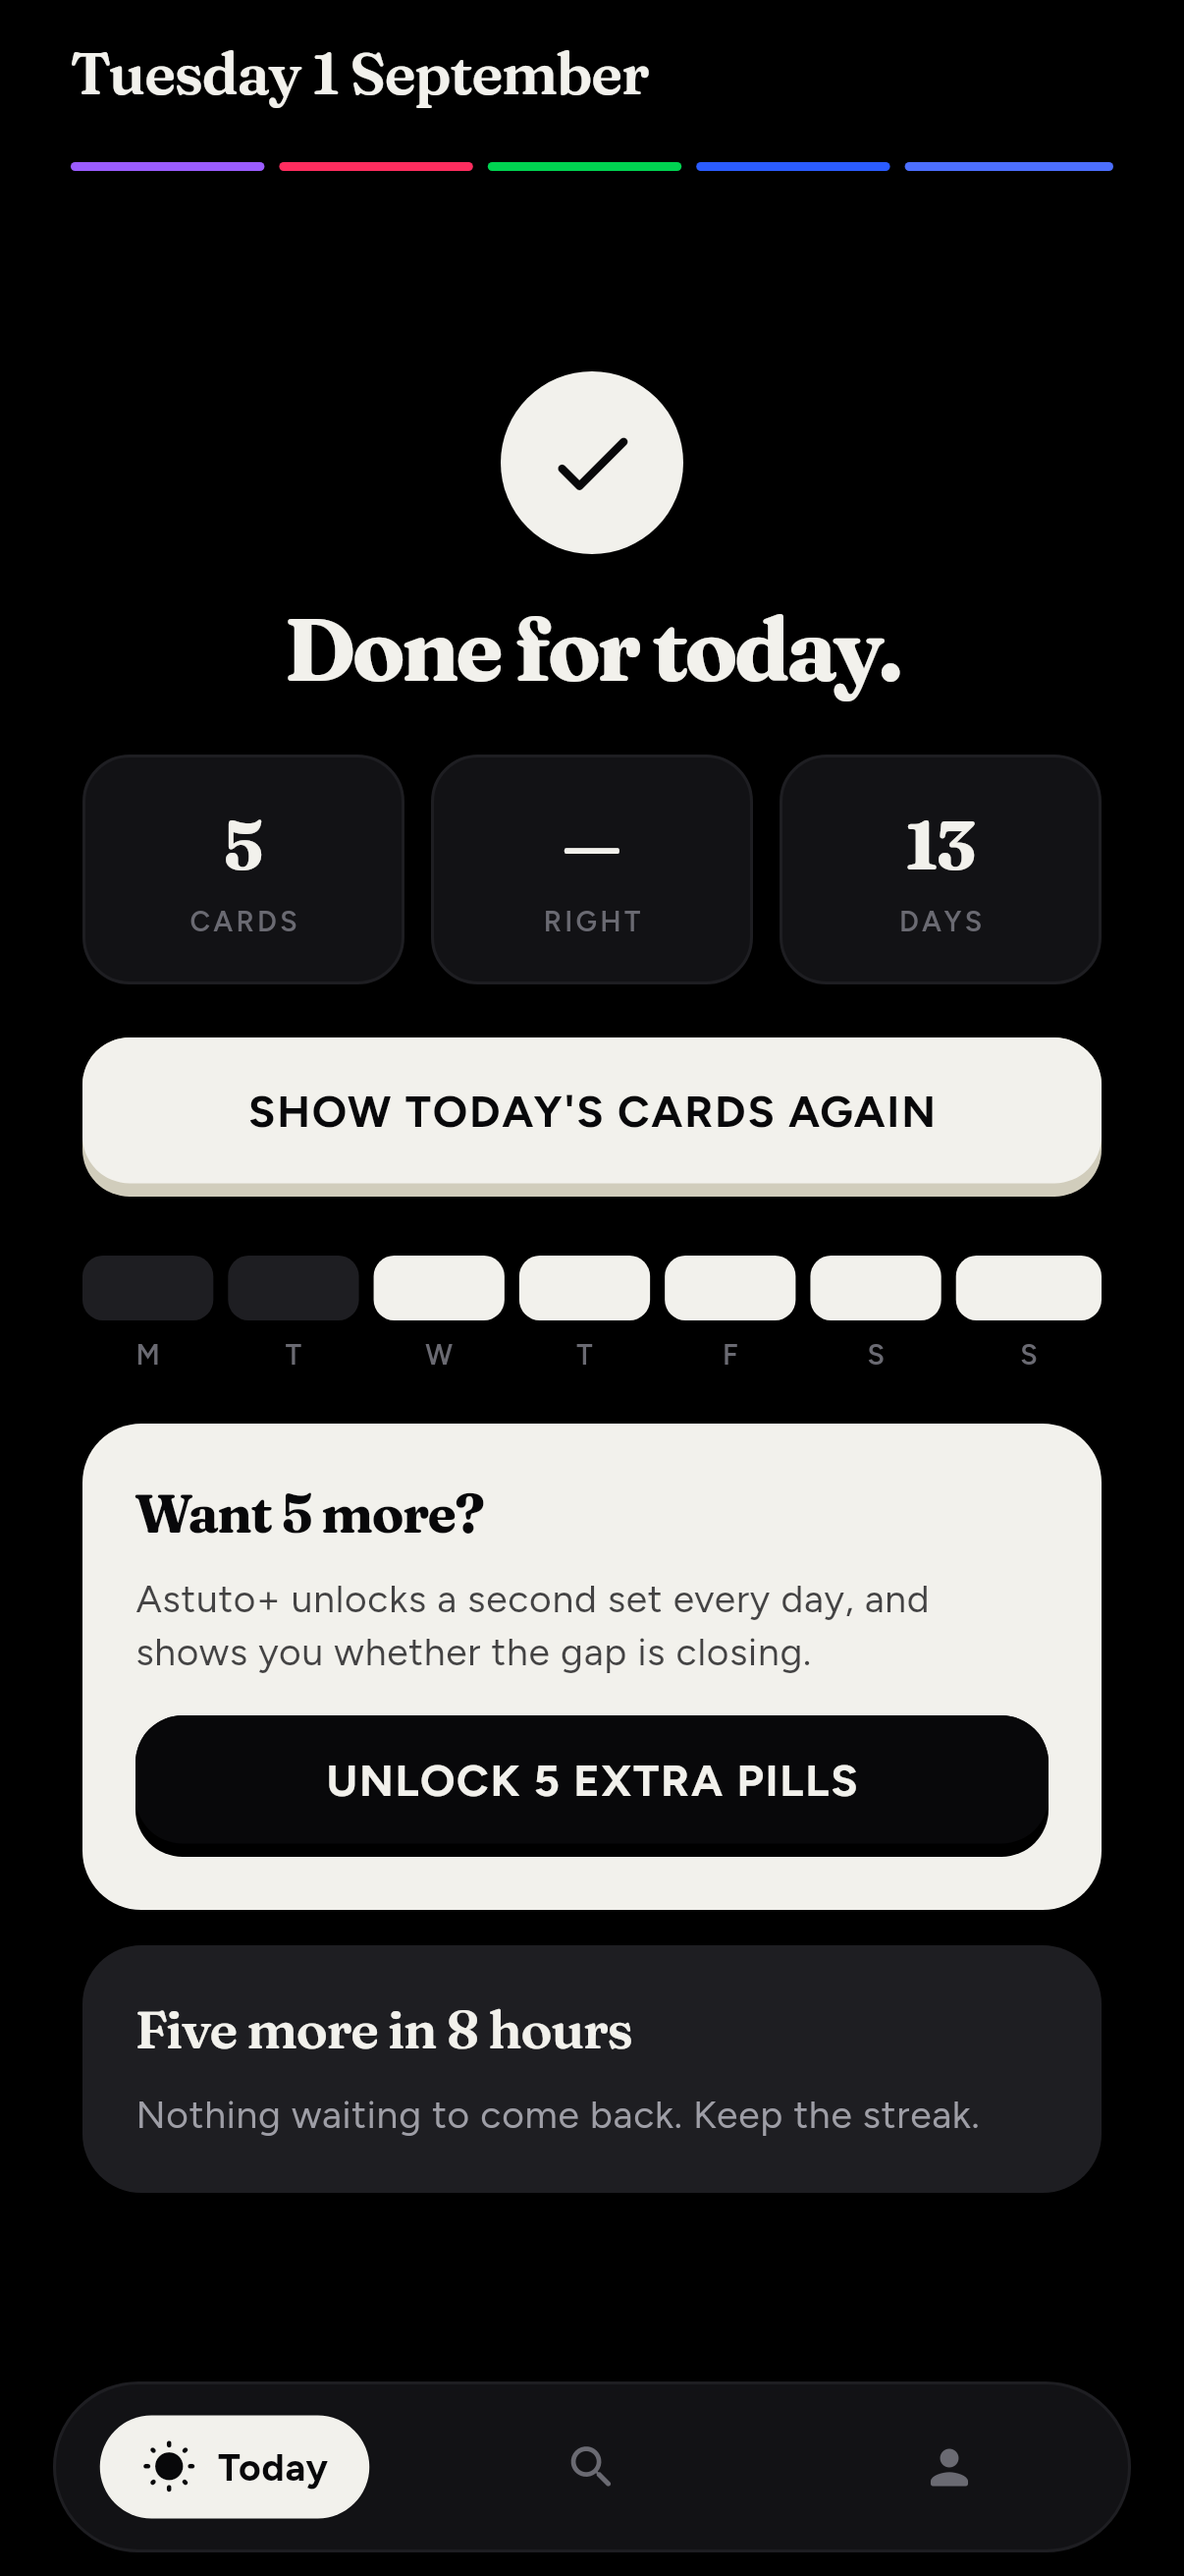
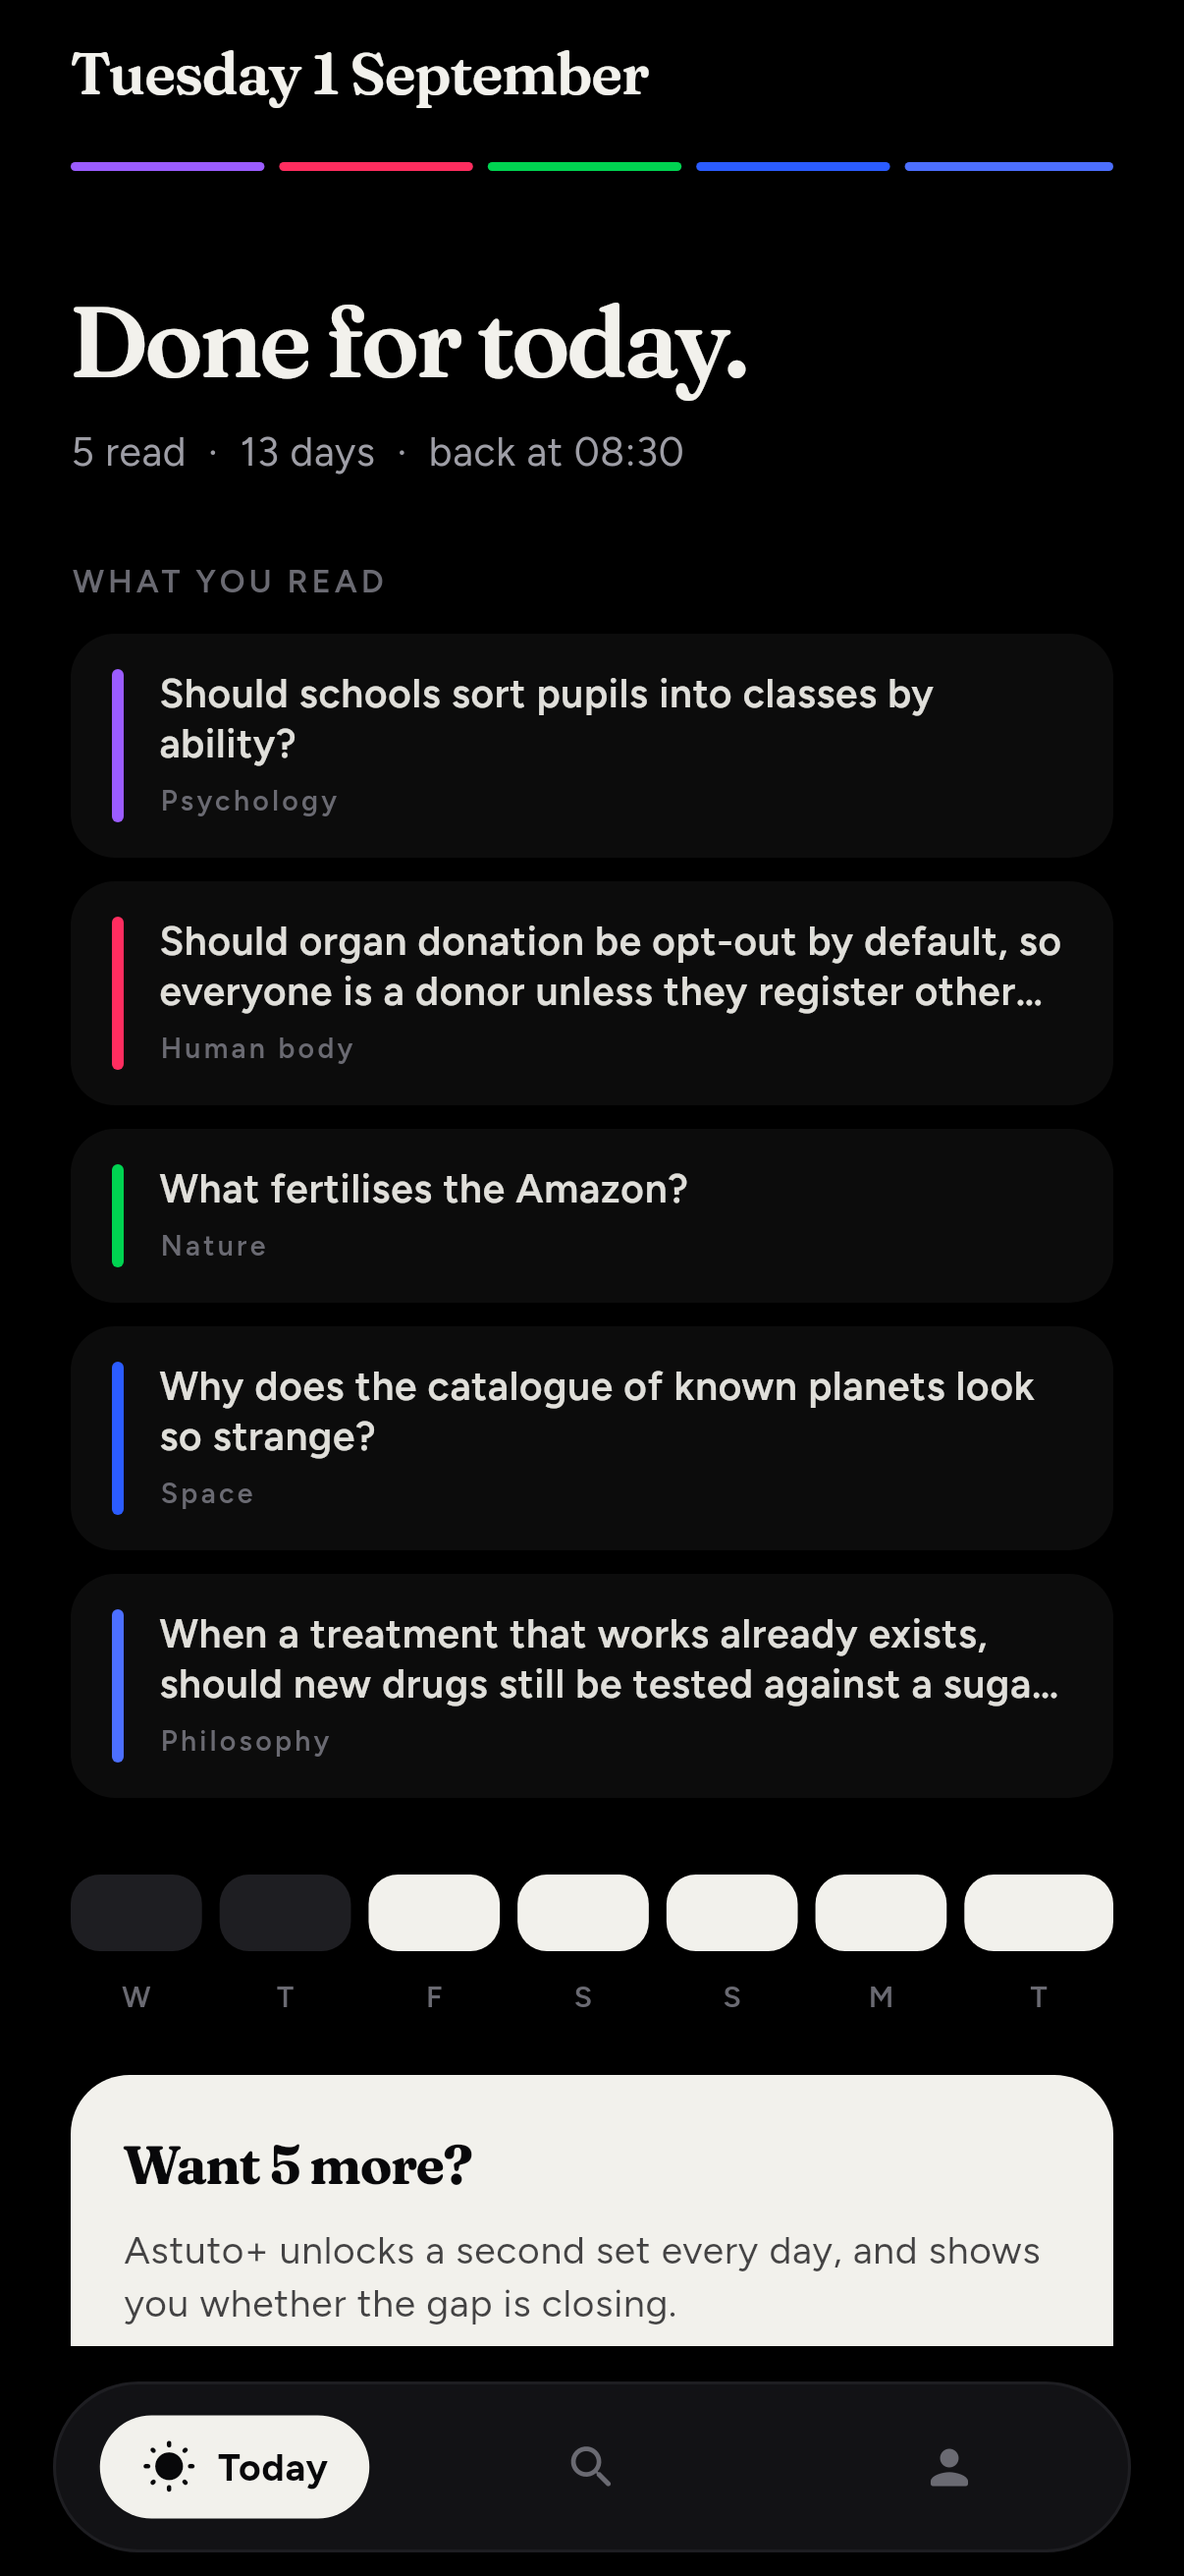
The day closes with what was in it, not with a tick
The end-of-day screen opened with a check in a white circle that could have
belonged to any app, under three tiles of which one usually read a dash —
nothing had been graded, so RIGHT had nothing to say — and then stacked a
week strip, an offer and a "five more in eight hours" card on top of each
other. The calmest screen in the app was its busiest. And in all of that it
never named a single card, which is the whole of what had just been read.

It is a receipt now. "Done for today", one line carrying the count, the
score where there is one, the streak and when the next set arrives, and then
the five, each with its subject's colour against it — the same colours the
bars at the top of the day were drawn in. Every row opens that card, so the
way back is to the one you wanted rather than to the top of the five; the
button that reopened all of them has gone with the tiles.

The tomorrow card went too: the summary line already says when the next set
comes, and saying it twice was one of the three blocks that made this screen
loud.

diff --git a/lib/screens/recap_view.dart b/lib/screens/recap_view.dart
@@ -1,5 +1,6 @@
 import 'package:flutter/material.dart';
 
+import '../models/pill.dart';
 import '../state/app_state.dart';
 import '../theme.dart';
 import '../widgets/chunky.dart';
@@ -8,8 +9,6 @@ import '../widgets/record_share_sheet.dart';
 import '../widgets/ui.dart';
 import 'deck_viewer_screen.dart';
 import 'paywall_screen.dart';
-
-const _weekLetters = ['M', 'T', 'W', 'T', 'F', 'S', 'S'];
 
 /// The end-of-day state: the streak recap, then either the Astuto+ upsell on
 /// the free plan or the second set of the day for subscribers.
@@ -33,126 +32,73 @@ class RecapView extends StatelessWidget {
   @override
   Widget build(BuildContext context) {
     final (right, gradeable) = _tally();
-    final week = app.weekCompletion();
 
-    // Small on purpose. The end of a day is a beat, not a report: what it
-    // owes the reader is that it is finished, roughly how it went, and a way
-    // back into the cards. The long version pushed that way back below the
-    // fold, which is the one thing on this screen anybody actually wants.
+    // A receipt, not a certificate. What this screen owes the reader is
+    // that the day is finished, what was in it, and when the next one comes.
+    // It used to open with a tick in a circle that could have belonged to
+    // any app, under three tiles of which one usually read a dash — and it
+    // never once named a card, which is the whole of what had just been
+    // read.
+    final summary = <String>[
+      app.todaysDeck.length == 1 ? '1 read' : '${app.todaysDeck.length} read',
+      if (gradeable > 0) '$right of $gradeable right',
+      if (app.streak > 0) app.streak == 1 ? '1 day' : '${app.streak} days',
+      'back at ${app.notifyTime}',
+    ];
+
     return SingleChildScrollView(
-      padding: const EdgeInsets.fromLTRB(10, 10, 10, 10),
+      padding: const EdgeInsets.fromLTRB(6, 24, 6, 10),
       child: Column(
         crossAxisAlignment: CrossAxisAlignment.stretch,
         children: [
-          PopIn(
-            child: Center(
-              child: Container(
-                width: 62,
-                height: 62,
-                decoration: BoxDecoration(
-                  color: context.p.inverse,
-                  shape: BoxShape.circle,
-                ),
-                child: Icon(
-                  Icons.check_rounded,
-                  size: 34,
-                  color: context.p.onInverse,
-                ),
-              ),
-            ),
-          ),
-          const SizedBox(height: 16),
           RiseIn(
-            delay: const Duration(milliseconds: 80),
             child: Text(
               'Done for today.',
-              textAlign: TextAlign.center,
               style: AppText.display(
-                size: 30,
-                weight: FontWeight.w700,
+                size: 34,
+                weight: FontWeight.w600,
                 height: 1.05,
                 spacing: -1.2,
                 color: context.p.ink,
               ),
             ),
           ),
-          const SizedBox(height: 20),
+          const SizedBox(height: 10),
           RiseIn(
-            delay: const Duration(milliseconds: 160),
-            child: Row(
-              children: [
-                Expanded(
-                  child: _Stat(
-                    value: '${app.todaysDeck.length}',
-                    label: 'CARDS',
-                  ),
-                ),
-                const SizedBox(width: 9),
-                Expanded(
-                  child: _Stat(
-                    value: gradeable == 0 ? '—' : '$right/$gradeable',
-                    label: 'RIGHT',
-                  ),
-                ),
-                const SizedBox(width: 9),
-                Expanded(
-                  child: _Stat(
-                    value: '${app.streak}',
-                    label: app.streak == 1 ? 'DAY' : 'DAYS',
-                    accent: true,
-                  ),
-                ),
-              ],
+            delay: const Duration(milliseconds: 60),
+            child: Text(
+              summary.join('  ·  '),
+              style: AppText.body(size: 13.5, color: context.p.inkMuted),
             ),
           ),
+          const SizedBox(height: 26),
+          const Eyebrow('What you read'),
+          const SizedBox(height: 10),
+          // The five, named, each one a way back into itself. A single
+          // button marked "show them again" made you re-open all five to
+          // reach the one you wanted.
+          for (int i = 0; i < app.todaysDeck.length; i++)
+            RiseIn(
+              delay: Duration(milliseconds: 100 + i * 50),
+              child: _ReadRow(
+                pill: app.todaysDeck[i],
+                onTap: () => openDeckViewer(
+                  context,
+                  app,
+                  app.todaysDeck,
+                  "Today's five",
+                  initialIndex: i,
+                ),
+              ),
+            ),
           const SizedBox(height: 18),
           RiseIn(
-            delay: const Duration(milliseconds: 240),
-            child: ChunkyButton(
-              label: "SHOW TODAY'S CARDS AGAIN",
-              height: 54,
-              fill: context.p.inverse,
-              ink: context.p.onInverse,
-              onPressed: () =>
-                  openDeckViewer(context, app, app.todaysDeck, "Today's five"),
-            ),
+            delay: const Duration(milliseconds: 340),
+            child: WeekStrip(week: app.weekCompletion(), barHeight: 26),
           ),
           const SizedBox(height: 20),
-          RiseIn(
-            delay: const Duration(milliseconds: 300),
-            child: Row(
-              children: List.generate(7, (i) {
-                return Expanded(
-                  child: Padding(
-                    padding: EdgeInsets.only(right: i == 6 ? 0 : 5),
-                    child: Column(
-                      children: [
-                        Container(
-                          height: 22,
-                          decoration: BoxDecoration(
-                            color: week[i] ? context.p.inverse : context.p.line,
-                            borderRadius: BorderRadius.circular(7),
-                          ),
-                        ),
-                        const SizedBox(height: 5),
-                        Text(
-                          _weekLetters[i],
-                          style: AppText.label(
-                            size: 9.5,
-                            color: context.p.inkFaint,
-                          ),
-                        ),
-                      ],
-                    ),
-                  ),
-                );
-              }),
-            ),
-          ),
-          const SizedBox(height: 16),
 
-          // Everything past here is optional reading, and sits below the
-          // thing the reader came to this screen to do.
+          // Everything past here is optional reading.
           if (app.canOpenExtraSet)
             _ExtraSet(app: app)
           else if (!app.isPlus)
@@ -163,51 +109,74 @@ class RecapView extends StatelessWidget {
             const SizedBox(height: 12),
             _RecordNudge(app: app),
           ],
-          if (!app.isPlus) ...[const SizedBox(height: 12), _Tomorrow(app: app)],
         ],
       ),
     );
   }
 }
 
-/// One figure from the day, in a tile small enough that three fit a row.
-class _Stat extends StatelessWidget {
-  final String value;
-  final String label;
-  final bool accent;
+/// One of the day's cards, on the screen that closes the day.
+class _ReadRow extends StatelessWidget {
+  const _ReadRow({required this.pill, required this.onTap});
 
-  const _Stat({required this.value, required this.label, this.accent = false});
+  final Pill pill;
+  final VoidCallback onTap;
 
   @override
   Widget build(BuildContext context) {
-    return Container(
-      padding: const EdgeInsets.symmetric(vertical: 13),
-      decoration: BoxDecoration(
-        color: context.p.surfaceRaised,
-        borderRadius: BorderRadius.circular(16),
-        border: Border.all(color: context.p.line),
-      ),
-      child: Column(
-        children: [
-          Text(
-            value,
-            style: AppText.display(
-              size: 23,
-              weight: FontWeight.w700,
-              spacing: -0.7,
-              color: accent ? context.p.inverse : context.p.ink,
-            ),
+    return GestureDetector(
+      behavior: HitTestBehavior.opaque,
+      onTap: onTap,
+      child: Container(
+        margin: const EdgeInsets.only(bottom: 8),
+        padding: const EdgeInsets.fromLTRB(14, 12, 14, 12),
+        decoration: BoxDecoration(
+          color: context.p.ink.withValues(alpha: 0.05),
+          borderRadius: BorderRadius.circular(15),
+        ),
+        child: IntrinsicHeight(
+          child: Row(
+            crossAxisAlignment: CrossAxisAlignment.stretch,
+            children: [
+              Container(
+                width: 4,
+                decoration: BoxDecoration(
+                  color: pill.color,
+                  borderRadius: BorderRadius.circular(9),
+                ),
+              ),
+              const SizedBox(width: 12),
+              Expanded(
+                child: Column(
+                  crossAxisAlignment: CrossAxisAlignment.start,
+                  mainAxisAlignment: MainAxisAlignment.center,
+                  children: [
+                    Text(
+                      pill.question,
+                      maxLines: 2,
+                      overflow: TextOverflow.ellipsis,
+                      style: AppText.body(
+                        size: 13.5,
+                        height: 1.28,
+                        weight: FontWeight.w600,
+                        color: context.p.ink.withValues(alpha: 0.92),
+                      ),
+                    ),
+                    const SizedBox(height: 4),
+                    Text(
+                      pill.topic,
+                      style: AppText.label(
+                        size: 9.5,
+                        spacing: 1.1,
+                        color: context.p.inkFaint,
+                      ),
+                    ),
+                  ],
+                ),
+              ),
+            ],
           ),
-          const SizedBox(height: 3),
-          Text(
-            label,
-            style: AppText.label(
-              size: 9.5,
-              spacing: 1.1,
-              color: context.p.inkFaint,
-            ),
-          ),
-        ],
+        ),
       ),
     );
   }

diff --git a/test/widget_test.dart b/test/widget_test.dart
@@ -714,20 +714,22 @@ void main() {
       await _settle(tester);
     }
 
-    // Short: it says it is done and how it went, and nothing else has to be
-    // scrolled past to get back to the cards.
+    // It says it is done, how the day went on one line, and then names the
+    // five — which is both the record of the day and the way back into any
+    // one of them.
     expect(find.text('Done for today.'), findsOneWidget);
-    expect(find.text('CARDS'), findsOneWidget);
-    expect(find.text('RIGHT'), findsOneWidget);
+    expect(find.textContaining('5 read'), findsOneWidget);
+    expect(find.text('WHAT YOU READ'), findsOneWidget);
 
-    final again = find.text("SHOW TODAY'S CARDS AGAIN");
-    expect(again, findsOneWidget);
-    await tester.tap(again);
+    final app = AppState();
+    await app.init();
+    final second = app.todaysDeck[1].question;
+    await tester.tap(find.text(second));
     await _settle(tester);
 
-    // And it lands on the five, face down.
+    // Straight to that card, not to the top of the five.
     expect(find.text("Today's five"), findsOneWidget);
-    expect(find.text('1/5'), findsOneWidget);
+    expect(find.text('2/5'), findsOneWidget);
   });
 
   testWidgets('the free plan is offered the upsell instead', (tester) async {
@@ -1029,9 +1031,9 @@ void main() {
         await _settle(tester);
       }
 
-      await tester.scrollUntilVisible(find.textContaining('Five more in'), 200);
-      await _settle(tester);
-      expect(find.textContaining('Five more in'), findsOneWidget);
+      // On one line with the rest of the day, rather than in a card of its
+      // own under two others.
+      expect(find.textContaining('back at'), findsOneWidget);
     });
   });
 
